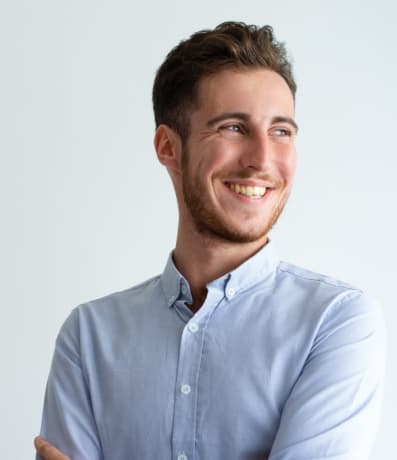
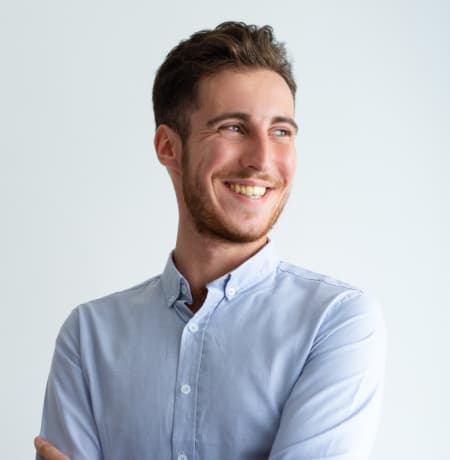
фото команды

diff --git a/index.html b/index.html
@@ -235,7 +235,7 @@
                   src="./images/team1Tablet.jpg"
                   alt="член команды 1"
                   class="img"
-                  width="100%"
+                  width="270"
                 />
               </picture>
               <h3 class="title">Игорь Демьяненко</h3>
@@ -302,7 +302,7 @@
                   src="./images/team2Tablet.jpg"
                   alt="член команды 2"
                   class="img"
-                  width="100%"
+                  width="270"
                 />
               </picture>
               <h3 class="title">Ольга Репина</h3>
@@ -369,7 +369,7 @@
                   src="./images/team3Tablet.jpg"
                   alt="член команды 3"
                   class="img"
-                  width="100%"
+                  width="270"
                 />
               </picture>
               <h3 class="title">Николай Тарасов</h3>
@@ -436,7 +436,7 @@
                   src="./images/team4Tablet.jpg"
                   alt="член команды 4"
                   class="img"
-                  width="100%"
+                  width="270"
                 />
               </picture>
               <h3 class="title">Михаил Ермаков</h3>
